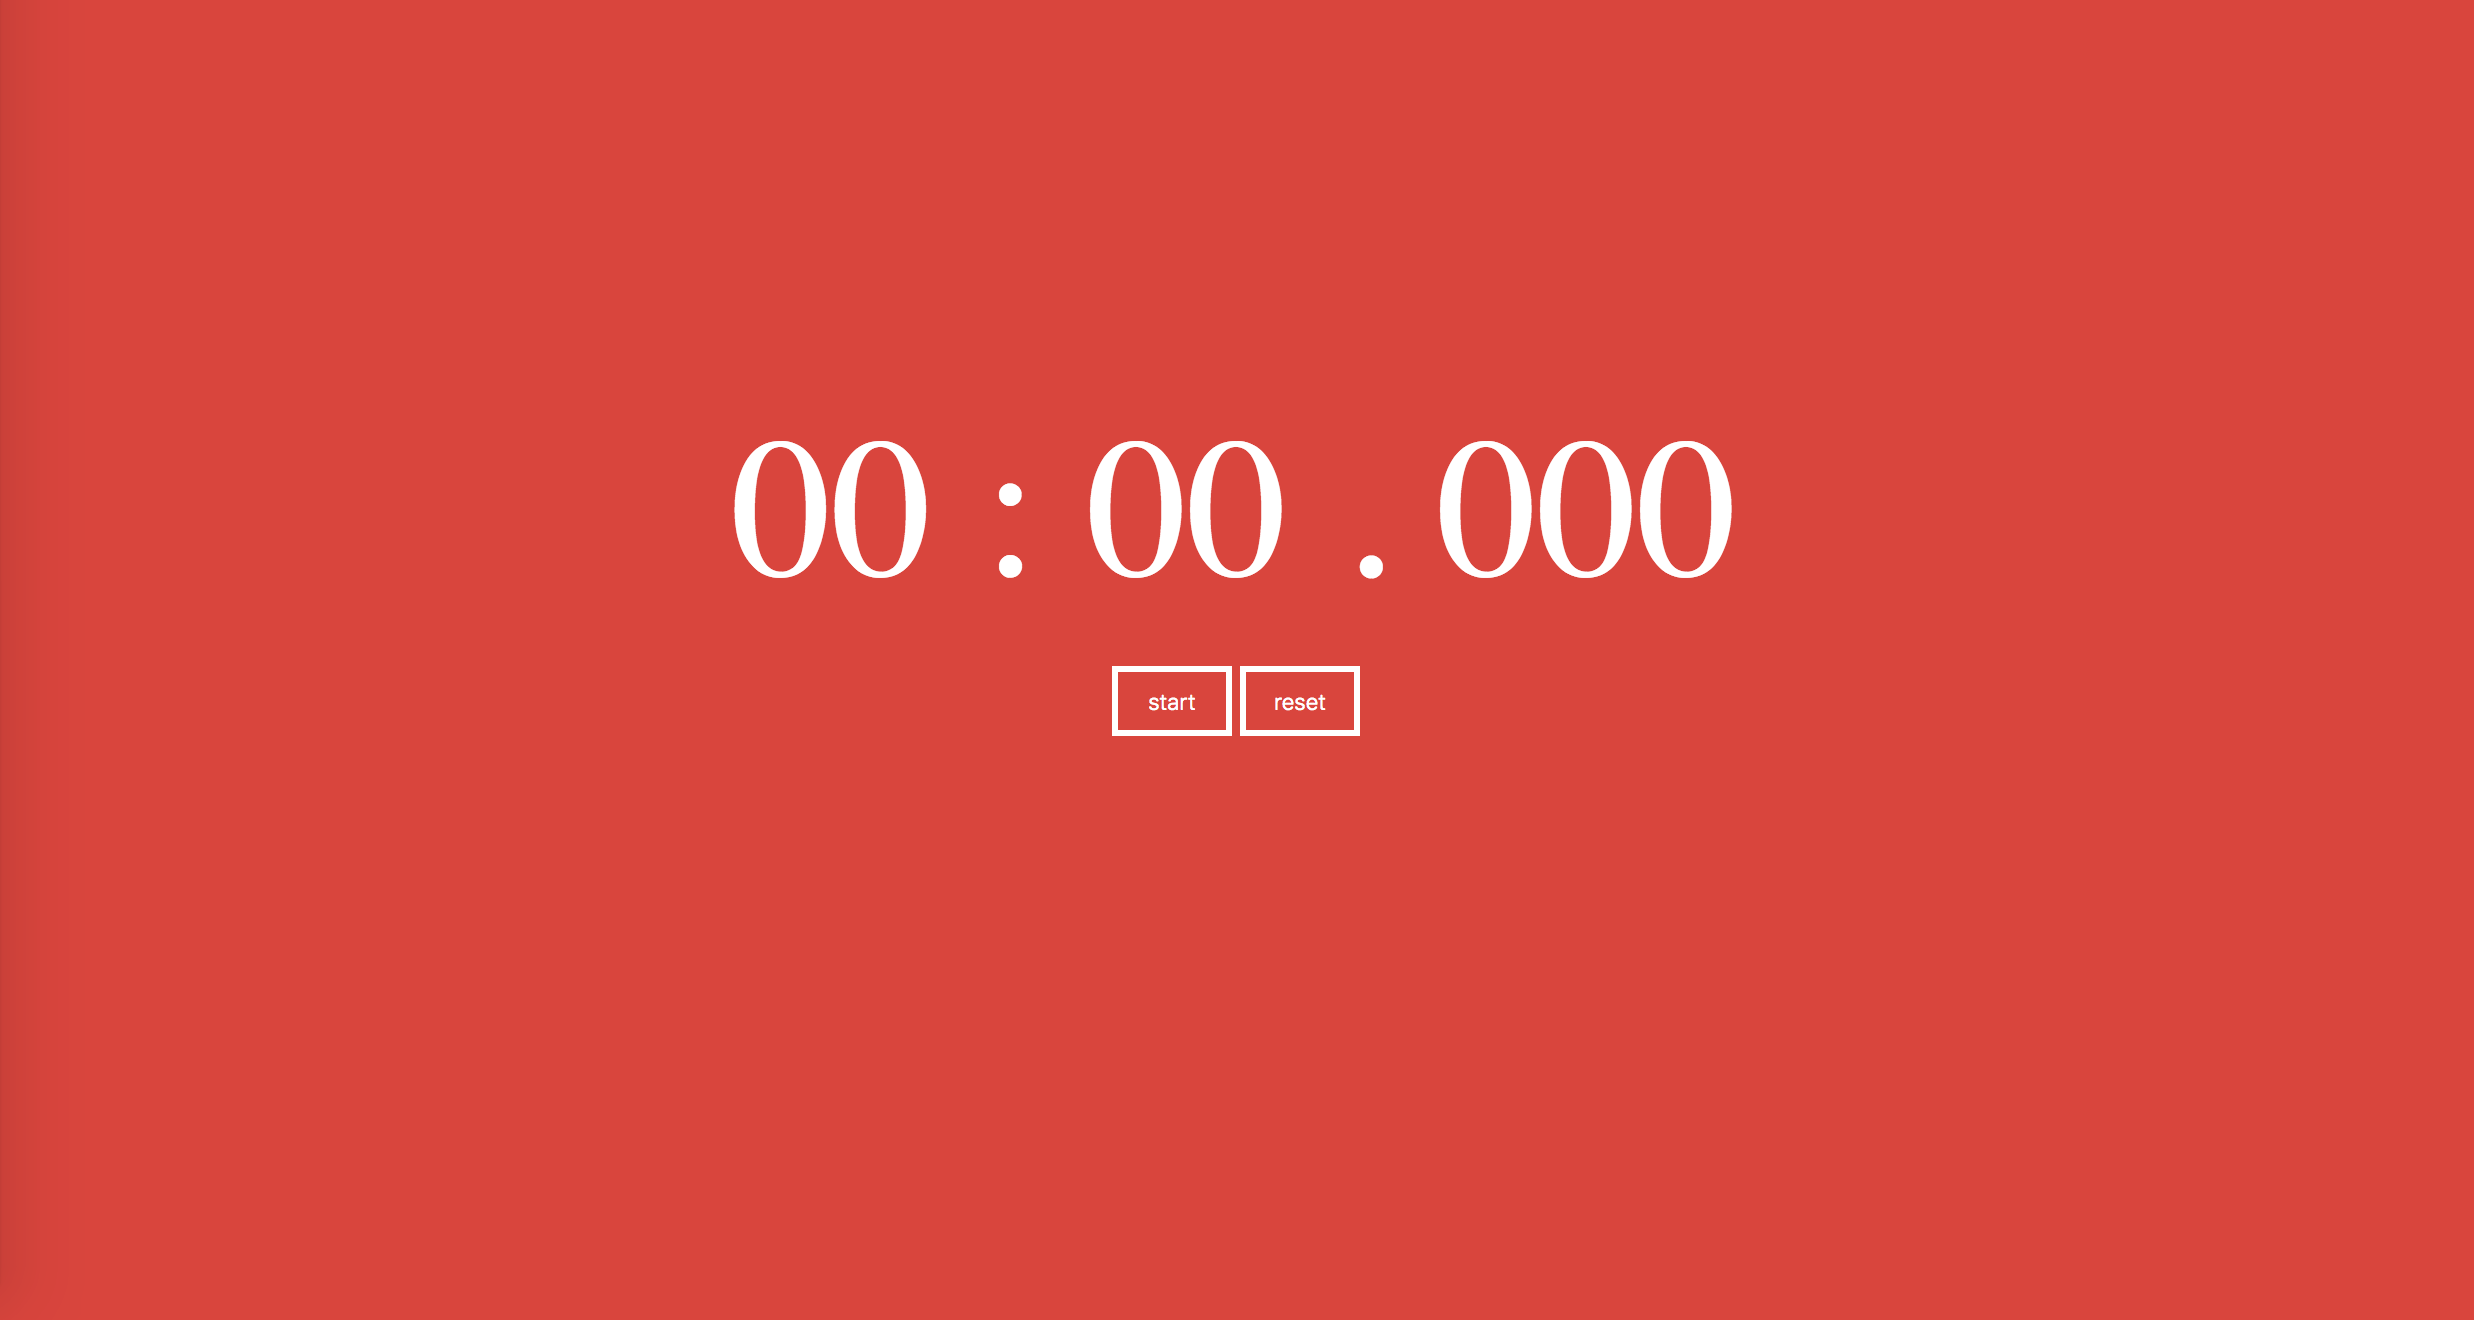
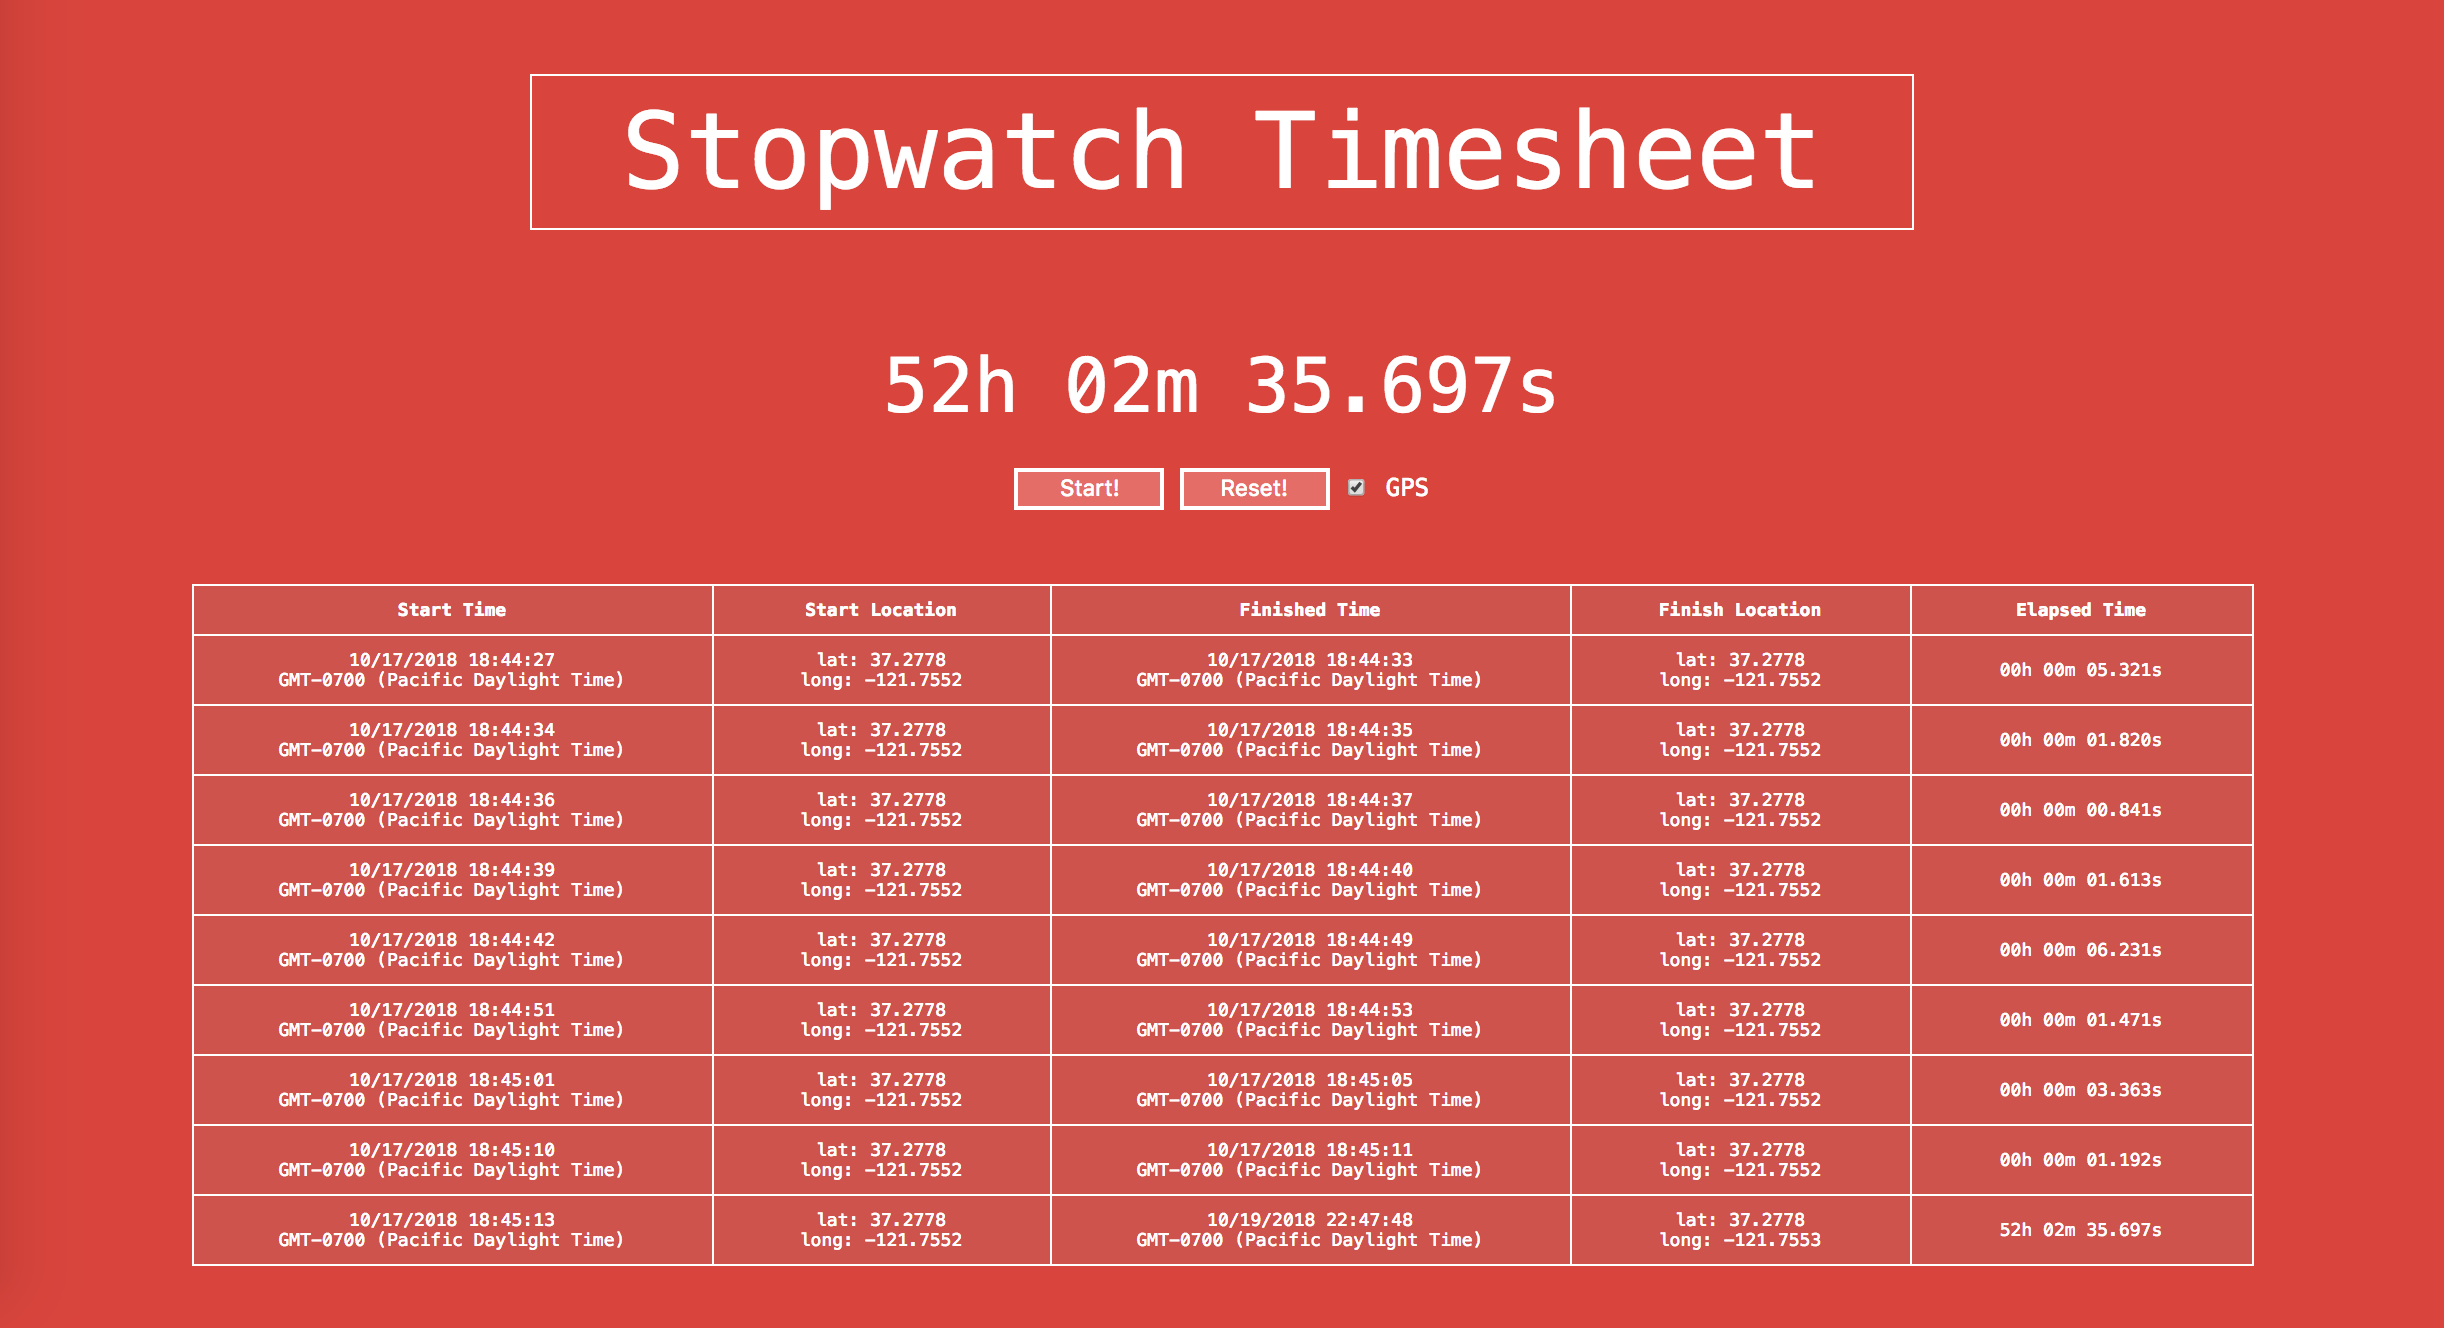
added tracker project to projects

diff --git a/project.html b/project.html
@@ -187,16 +187,17 @@
 		</div>
 		
 		<div class="grid-item"> 
-			<a href='https://dnguy104.github.io/Stopwatch/'>
+			<a href='https://dnguy104.github.io/Tracker/'>
 				<img src="public/images/project/project10.png" >
 			</a> 
-			<h2>StopWatch</h2>
+			<h2>StopWatch Timesheet</h2>
 			<p>
-				A single page stopwatch app! Html and css!
+				A single page stopwatch timesheet app! It helps you track record the elapsed time
+				of the stopwatch as well as your GPS location.
 			</p>
 				
-			<button type="button" class="btn btn-primary btn-sm" onclick="window.location.href='https://dnguy104.github.io/Stopwatch/'">Demo</button>
-			<button type="button" class="btn btn-danger btn-sm" onclick="window.location.href='https://github.com/Dnguy104/Stopwatch'" >Github</button>
+			<button type="button" class="btn btn-primary btn-sm" onclick="window.location.href='https://dnguy104.github.io/Tracker/'">Demo</button>
+			<button type="button" class="btn btn-danger btn-sm" onclick="window.location.href='https://github.com/Dnguy104/Tracker'" >Github</button>
 			<p style="display: inline; padding-left: 15px;">Vanilla JS</p>
 			
 		</div>
